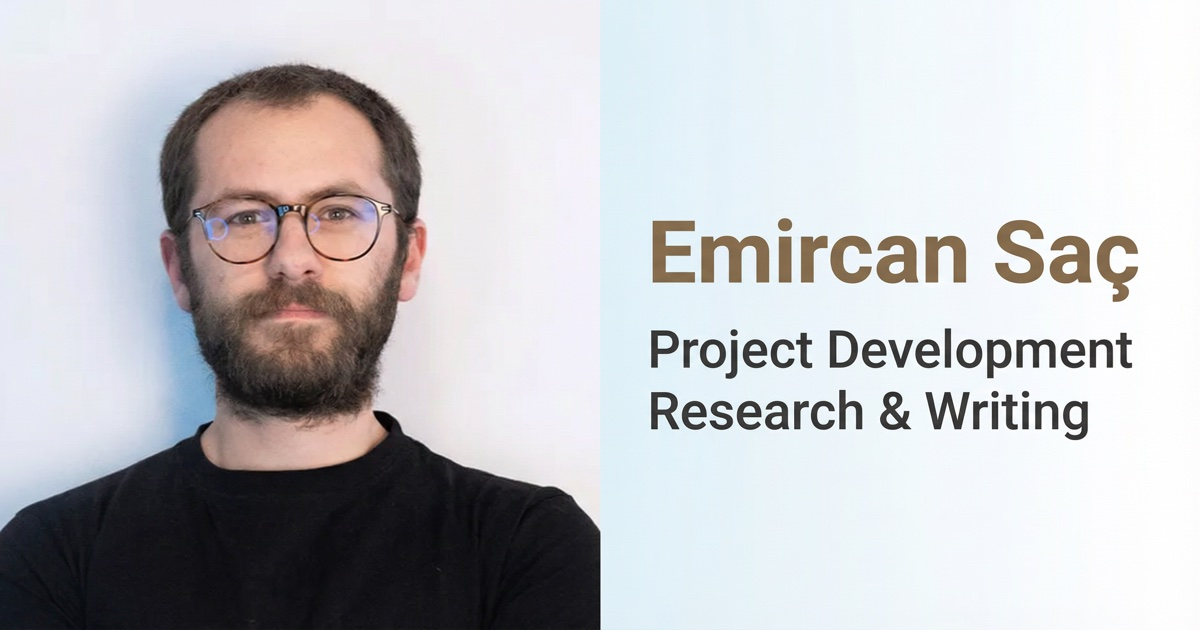
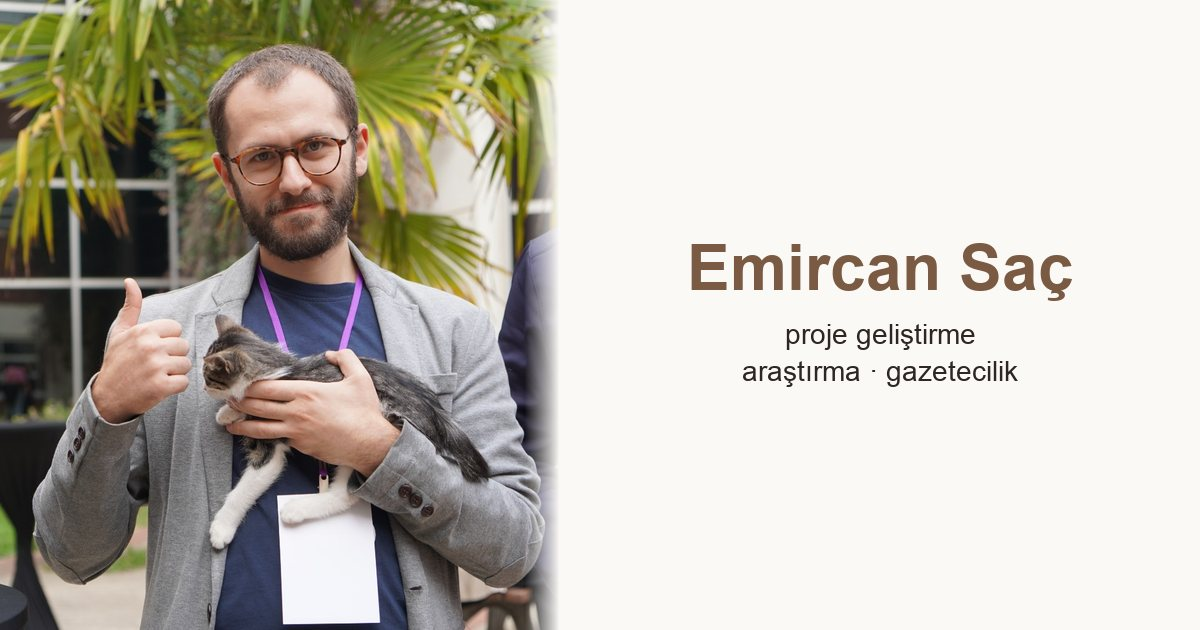
Add a role line under the name, highlight it, and refresh the share image.

diff --git a/index.html b/index.html
@@ -22,14 +22,14 @@
     <meta property="og:image:type" content="image/jpeg">
     <meta property="og:image:width" content="1200">
     <meta property="og:image:height" content="630">
-    <meta property="og:image:alt" content="Emircan Saç - Proje Geliştirme, Araştırma ve Yazı">
+    <meta property="og:image:alt" content="Emircan Saç — proje geliştirme, araştırma ve gazetecilik">
 
     <!-- Twitter Card -->
     <meta name="twitter:card" content="summary_large_image">
     <meta name="twitter:title" content="Emircan Saç - Proje Geliştirme, Araştırma ve Yazı">
     <meta name="twitter:description" content="Proje geliştirme, bilgi düzensizliği araştırması, medya okuryazarlığı. Sivil toplum, gazetecilik, akademi.">
     <meta name="twitter:image" content="https://emircansac.com/og-image.jpg">
-    <meta name="twitter:image:alt" content="Emircan Saç">
+    <meta name="twitter:image:alt" content="Emircan Saç — proje geliştirme, araştırma ve gazetecilik">
 
     <script type="application/ld+json">
     {
@@ -69,6 +69,8 @@
             <img class="identity-photo" src="assets/photos/portrait.jpg" alt="Emircan Saç">
             <div class="identity-copy">
                 <h1 class="identity-name">emircan saç</h1>
+                <p class="identity-role" data-lang="tr"><span>proje geliştirme · araştırma · gazetecilik</span></p>
+                <p class="identity-role" data-lang="en" style="display: none;"><span>project development · research · journalism</span></p>
                 <a href="#" class="identity-email email-protected" aria-label="Email">
                     <span class="email-icon">✉</span>
                     <span class="email-text"></span>

diff --git a/css/style.css b/css/style.css
@@ -133,6 +133,28 @@ body {
     line-height: 1.4;
 }
 
+.identity-role {
+    margin: 0;
+    font-size: 0.78rem;
+    font-weight: 500;
+    letter-spacing: 0.01em;
+    line-height: 1.45;
+    color: var(--role-ink);
+}
+
+.identity-role span {
+    align-self: flex-start;
+    width: fit-content;
+    max-width: 100%;
+    padding: 0.05em 0.12em;
+    background-image: linear-gradient(
+        transparent 62%,
+        rgba(122, 90, 67, 0.28) 62%
+    );
+    box-decoration-break: clone;
+    -webkit-box-decoration-break: clone;
+}
+
 .identity-email {
     display: inline-flex;
     align-items: center;
@@ -963,8 +985,18 @@ body.nav-mode-section .section-content strong {
   .identity-name {
     font-size: 1.5rem;
     font-weight: 600;
-    margin-bottom: 0.75rem;
+    margin-bottom: 0.15rem;
     transition: font-size 0.4s ease, margin 0.4s ease;
+  }
+
+  .identity-role {
+    font-size: 0.78rem;
+    margin: 0 0 0.6rem 0;
+    max-width: 100%;
+    overflow: hidden;
+    max-height: 2.6rem;
+    opacity: 1;
+    transition: max-height 0.4s ease, opacity 0.25s ease, margin 0.4s ease;
   }
 
   .identity-email {
@@ -997,7 +1029,8 @@ body.nav-mode-section .section-content strong {
   }
 
   .identity-block.is-compact .identity-email,
-  .identity-block.is-compact .identity-writing {
+  .identity-block.is-compact .identity-writing,
+  .identity-block.is-compact .identity-role {
     max-height: 0;
     min-height: 0;
     padding: 0;
